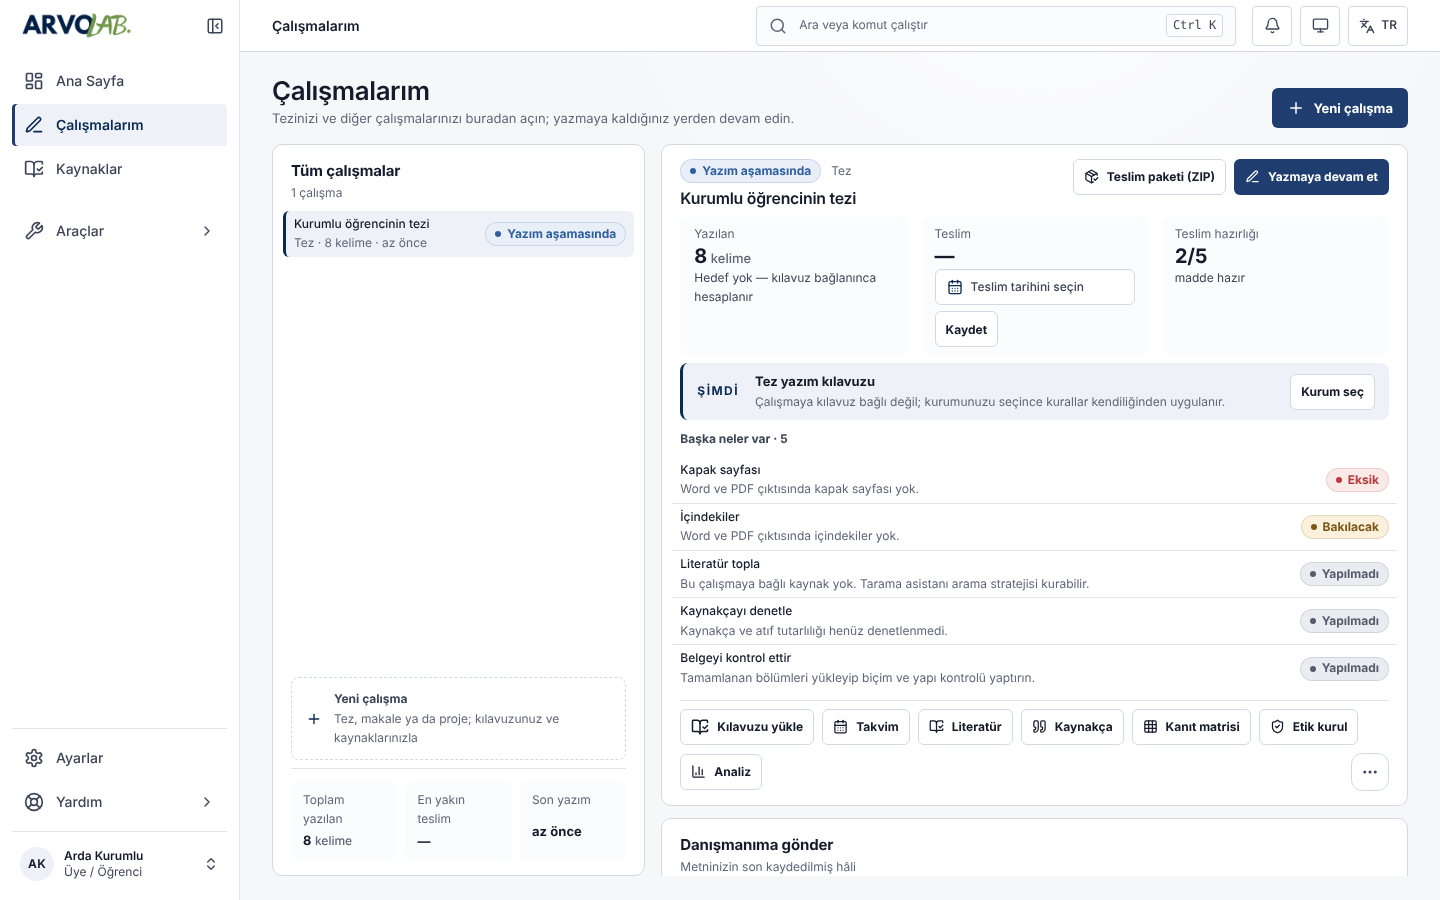
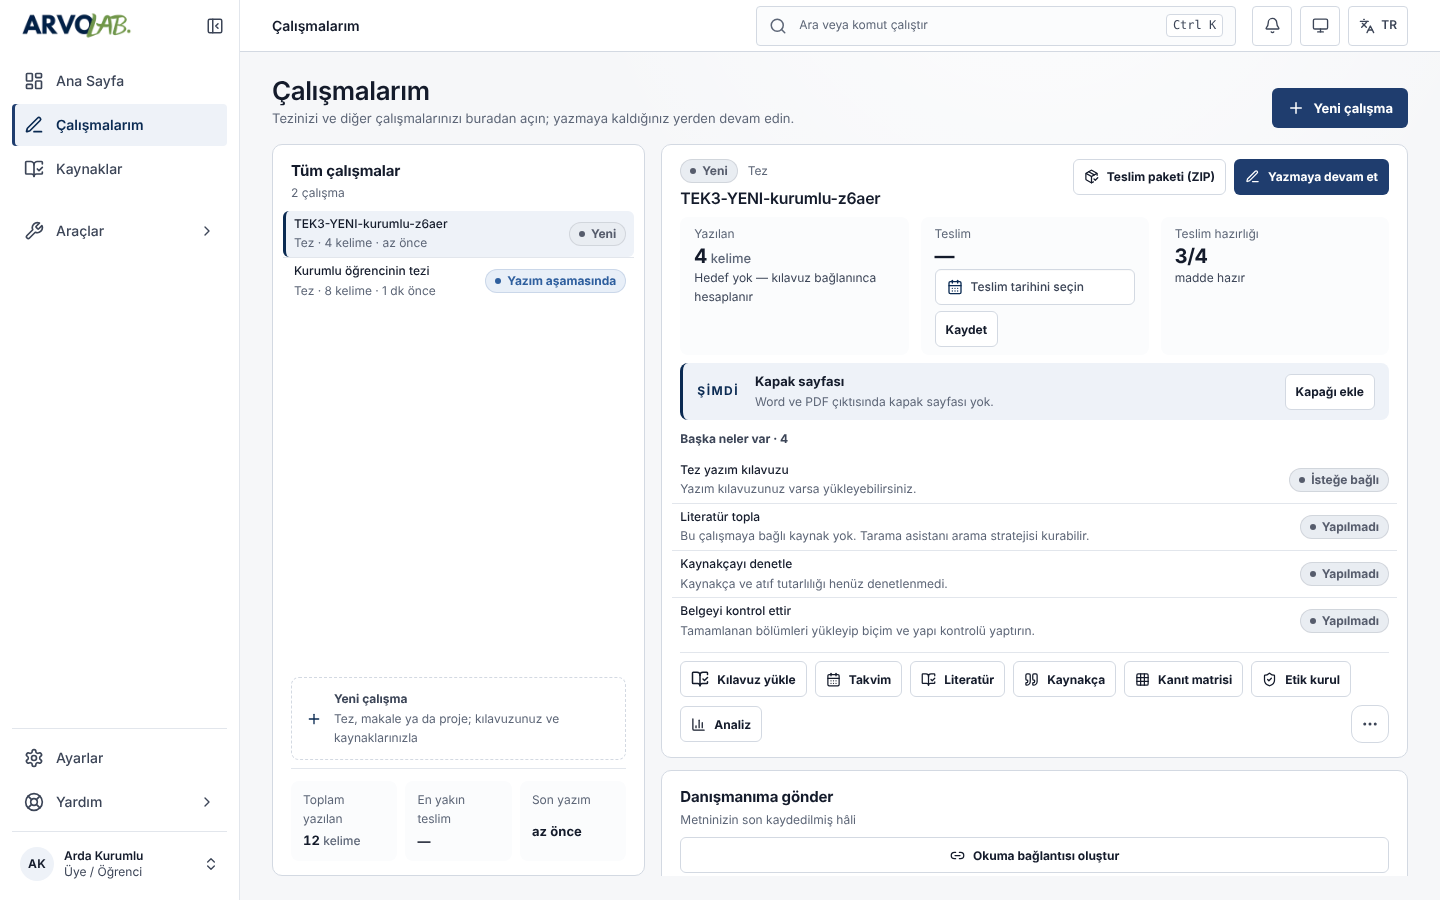
Kılavuz isteğe bağlı: "Kurum seç" kalktı; uzman kuyruğu kabulündeki düzenek hatası
Çalışmalarım'ın "Şimdi" satırı kılavuzsuz her tezde "Kurum seç" diyordu;
editörün kılavuz panelinde de "Kurumu seç" vardı. ArvoLab kurum
seçtirmiyor ve kılavuzsuz yazma/dışa aktarma çalışıyor: kılavuz maddesi
artık isteğe bağlı ("Yazım kılavuzunuz varsa yükleyebilirsiniz" / "Kılavuz
yükle"), teslim hazırlığı sayısına girmez ve "Şimdi" işi olmaz.

Uzman kuyruğu kabulü aynı tohumla ikinci koşuda düşüyordu. Ürün hatası
değil: kuyruk ilk gelen önce sıralanıyor, satırda mesaj değil çalışma
başlığı var ve mesaj yalnızca seçili kaydın detayında. Temiz tohumda
kurumun tek talebi seçili geldiği için geçiyordu. Betik artık talebin kendi
satırını bulup açıyor. Kabul ayrıca kurum seçmeden Word dışa aktarmayı ve
Çalışmalarım'daki isteğe bağlı kılavuz satırını ölçüyor; temiz tohumda ve
aynı tohumla ikinci koşuda 26/26.

Claude-Session: https://claude.ai/code/session_019RKsJcMSQaVAuno3B2diqW

diff --git a/lib/submission-checklist.ts b/lib/submission-checklist.ts
@@ -27,9 +27,8 @@ export function missingCoverFields(cover: Partial<CoverPage>, dil: Dil = "tr"): 
 export type ChecklistStatus = "ok" | "warning" | "todo";
 
 export type ChecklistAction =
-  | "link-guideline"
-  /* Kurum seçili ama katalogda karşılığı yok: öğrenci kendi kılavuzunu
-     yükleyebiliyor (app/actions/calisma-kilavuzu.ts). */
+  /* Kılavuz yükleme (app/actions/calisma-kilavuzu.ts). 20.11.2026'ya kadar
+     bir de "link-guideline" (Kurum seç) vardı; kaldırıldı, aşağıya bakın. */
   | "upload-guideline"
   | "insert-sections"
   | "open-issues"
@@ -46,6 +45,12 @@ export interface ChecklistItem {
   status: ChecklistStatus;
   detail: string;
   action?: { id: ChecklistAction; label: string };
+  /*
+    İsteğe bağlı madde (20.11.2026): teslim hazırlığı sayısına girmez ve
+    "Şimdi" işi olarak seçilmez. Bugün yalnızca kılavuz maddesi böyle;
+    kılavuzsuz yazma ve dışa aktarma tamamen çalışıyor.
+  */
+  optional?: boolean;
 }
 
 export interface SubmissionChecklist {
@@ -58,12 +63,10 @@ export interface ChecklistInput {
   isThesis: boolean;
   hasGuideline: boolean;
   /*
-    Çalışmada kurum bilgisi girili mi. "Kılavuz yok" iki ayrı durum ve
-    çözümleri FARKLI: kurum girilmemişse kurumu seçmek yeter, kurum
-    girilmiş ama katalogda karşılığı yoksa seçmek hiçbir şey
-    değiştirmez — orada tek yol kendi kılavuzunu yüklemek. İkisine
-    aynı şeyi söylemek, öğrenciyi işe yaramayan bir ekrana
-    göndermekti.
+    Çalışmada kurum bilgisi girili mi. 20.11.2026'ya kadar kılavuzsuz
+    tezde metni değiştiriyordu (kurumsuz → "Kurum seç"); kılavuz isteğe
+    bağlı olunca iki durum aynı cümleyi alıyor. Çağıranlar hâlâ verdiği
+    için alan kalıyor.
   */
   hasInstitution?: boolean;
   /** Uygulanan kurallar insan onayından geçti mi (lib/guideline-rules.ts). */
@@ -102,6 +105,15 @@ export function buildSubmissionChecklist(input: ChecklistInput, dil: Dil = "tr")
   const t = (tr: string, ing: string) => (en ? ing : tr);
   const items: ChecklistItem[] = [];
 
+  /*
+    KILAVUZ İSTEĞE BAĞLI (20.11.2026). Eskiden kılavuzu olmayan tezde bu
+    madde "yapılacak"tı ve kurumu girilmemiş kullanıcıyı "Kurum seç"e
+    gönderiyordu: Çalışmalarım'da "Şimdi" satırının işi kurum seçmek
+    oluyordu. ArvoLab artık kurum seçtirmiyor (kurum bağı ArvoOS'tan
+    gelir) ve kılavuz olmadan yazma ve dışa aktarma eksiksiz çalışıyor.
+    Madde kalıyor ama isteğe bağlı: sayıya girmez, "Şimdi" olmaz, tek
+    eylemi kılavuz yüklemek. hasInstitution artık metni değiştirmiyor.
+  */
   if (input.isThesis) {
     items.push(
       input.hasGuideline
@@ -109,26 +121,20 @@ export function buildSubmissionChecklist(input: ChecklistInput, dil: Dil = "tr")
             id: "guideline",
             label: t("Tez yazım kılavuzu", "Thesis writing guideline"),
             status: "ok",
+            optional: true,
             detail:
               input.guidelineVerified === false
                 ? t("Kendi yüklediğiniz kılavuz uygulanıyor; kurumunuzun onayından geçmedi.", "The guideline you uploaded is being applied; it has not been approved by your institution.")
                 : t("Kılavuz bağlı; biçim kuralları kendiliğinden uygulanıyor.", "A guideline is linked; its formatting rules are applied automatically."),
           }
-        : input.hasInstitution
-          ? {
-              id: "guideline",
-              label: t("Tez yazım kılavuzu", "Thesis writing guideline"),
-              status: "todo",
-              detail: t("Kurumunuzun kılavuzu katalogda yok. Kendi kılavuzunuzu yükleyin; kuralları okuyup size onaylatalım.", "Your institution's guideline is not in the catalog. Upload your own guideline; we will read the rules and ask you to confirm them."),
-              action: { id: "upload-guideline", label: t("Kılavuzumu yükle", "Upload my guideline") },
-            }
-          : {
-              id: "guideline",
-              label: t("Tez yazım kılavuzu", "Thesis writing guideline"),
-              status: "todo",
-              detail: t("Çalışmaya kılavuz bağlı değil; kurumunuzu seçince kurallar kendiliğinden uygulanır.", "No guideline is linked to this work; once you select your institution, its rules are applied automatically."),
-              action: { id: "link-guideline", label: t("Kurum seç", "Select institution") },
-            }
+        : {
+            id: "guideline",
+            label: t("Tez yazım kılavuzu", "Thesis writing guideline"),
+            status: "warning",
+            optional: true,
+            detail: t("Yazım kılavuzunuz varsa yükleyebilirsiniz.", "If you have a writing guideline, you can upload it."),
+            action: { id: "upload-guideline", label: t("Kılavuz yükle", "Upload guideline") },
+          }
     );
   }
 
@@ -318,5 +324,7 @@ export function buildSubmissionChecklist(input: ChecklistInput, dil: Dil = "tr")
     items.push({ id: "ethics", label: t("Etik kurul", "Ethics approval"), status: input.etik.durum, detail: input.etik.detay[dil] });
   }
 
-  return { items, done: items.filter((item) => item.status === "ok").length, total: items.length };
+  // İsteğe bağlı maddeler sayılmaz: kılavuz yüklemek teslim hazırlığını "eksik" göstermemeli.
+  const sayilan = items.filter((item) => !item.optional);
+  return { items, done: sayilan.filter((item) => item.status === "ok").length, total: sayilan.length };
 }

diff --git a/app/dashboard/editor/[id]/write/manuscript-editor.tsx b/app/dashboard/editor/[id]/write/manuscript-editor.tsx
@@ -348,8 +348,8 @@ interface ManuscriptEditorProps {
   guideline: AppliedGuideline | null;
   /** Sayfa ayarlarının kılavuzla senkron durumu (sunucuda hesaplanır) */
   guidelineSync: { mode: GuidelineSyncMode; source: SettingsSource; changes: GuidelineSyncChange[] };
-  /** Kurum seçimi için çalışma düzenleme sayfası */
-  editHref: string;
+  /** Çalışma düzenleme sayfası. 20.11.2026'dan beri editörde kullanılmıyor ("Kurum seç" kalktı); çağıran hâlâ veriyor. */
+  editHref?: string;
   /** Word çıktısına içindekiler tablosu */
   initialIncludeToc: boolean;
   /** Kılavuz ve kaynakça kontrolü geçmişi, en yenisi başta (yazim_kontrolleri) */
@@ -550,7 +550,6 @@ export default function ManuscriptEditor({
   projectDefaults,
   guideline,
   guidelineSync,
-  editHref,
   initialIncludeToc,
   kontrolGecmisi = [],
   sonKontrol = null,
@@ -2205,12 +2204,9 @@ export default function ManuscriptEditor({
   }, dil);
   const handleChecklistAction = (action: ChecklistAction) => {
     switch (action) {
-      case "link-guideline":
-        window.open(editHref, "_self");
-        break;
-      /* Kurum girili ama katalogda karşılığı yok: kılavuz penceresi
-         Çalışmalarım'daki kartta açılır (?kilavuz=1). Ayarlara göndermek,
-         hiçbir şeyi değiştirmeyen bir ekrana göndermekti. */
+      /* Kılavuz penceresi Çalışmalarım'daki kartta açılır (?kilavuz=1).
+         20.11.2026'ya kadar bir de "Kurum seç" (link-guideline) vardı ve
+         çalışma ayarlarına gönderiyordu; kılavuz isteğe bağlı olunca kalktı. */
       case "upload-guideline":
         window.open(`/dashboard/editor?sec=${encodeURIComponent(projectId)}&kilavuz=1`, "_self");
         break;
@@ -2731,7 +2727,8 @@ export default function ManuscriptEditor({
                 teslim"in, Kontroller menüsünün ve inceleme panelinin içindeydi;
                 kılavuzun durumu ise belgenin üstünde KALICI bir şeritti ("Bu
                 çalışmaya bağlı kılavuz yok · Kılavuzumu yükle · Kurumu seç").
-                Şerit kalktı, içeriği ve iki bağlantısı burada. Hiçbir işlev
+                Şerit kalktı, içeriği burada; "Kurumu seç" bağlantısı da 20.11.2026'da
+                kalktı (kılavuz isteğe bağlı, ArvoLab kurum seçtirmiyor). Hiçbir işlev
                 kaldırılmadı: Kontroller menüsü ve inceleme paneli aynen duruyor,
                 buradaki düğmeler aynı işleyicileri çağırıyor.
               */}
@@ -2822,18 +2819,15 @@ export default function ManuscriptEditor({
                     ) : (
                       <>
                         <p className="sol-arac-bos">
-                          {t({ tr: "Bu çalışmaya bağlı kılavuz yok.", en: "No guideline is linked to this work." })}{" "}
+                          {/* Kılavuz isteğe bağlı (20.11.2026); kılavuzsuz yazma ve dışa aktarma çalışır. */}
                           {t({
-                            tr: "Tez yazım kılavuzunuzu (PDF ya da web adresi) yükleyin; onayladığınız kurallar editöre uygulanır.",
-                            en: "Upload your thesis writing guideline (PDF or web address); the rules you approve are applied to the editor.",
+                            tr: "Yazım kılavuzunuz varsa yükleyebilirsiniz (PDF ya da web adresi); onayladığınız kurallar editöre uygulanır.",
+                            en: "If you have a writing guideline, you can upload it (PDF or web address); the rules you approve are applied to the editor.",
                           })}
                         </p>
                         <div className="sol-arac-eylem">
                           <Link className="projects-filter-button button-compact" href={calismaAdresi(projectId, { kilavuz: true })}>
-                            {t({ tr: "Kılavuzumu yükle", en: "Upload my guideline" })}
-                          </Link>
-                          <Link className="projects-filter-button button-compact" href={editHref}>
-                            {t({ tr: "Kurumu seç", en: "Select institution" })}
+                            {t({ tr: "Kılavuz yükle", en: "Upload guideline" })}
                           </Link>
                         </div>
                       </>

diff --git a/tests/unit/teslim-hazirligi.test.ts b/tests/unit/teslim-hazirligi.test.ts
@@ -187,19 +187,19 @@ test("teslim hazırlığı", async (t) => {
       projectType: "thesis",
       citationStyle: "apa7",
     });
-    assert.equal(liste.total, liste.items.length);
+    // İsteğe bağlı maddeler (kılavuz, 20.11.2026) sayıya girmez.
+    assert.equal(liste.total, liste.items.filter((i) => !i.optional).length);
     assert.ok(liste.done >= 0 && liste.done <= liste.total);
   });
 });
 
-test("kılavuz maddesi iki ayrı çıkmazı ayırıyor", () => {
+test("kılavuz isteğe bağlı: kurum seçtirmez, sayıya girmez (20.11.2026)", () => {
   /*
-    "Kılavuz yok" iki durum ve çözümleri FARKLI:
-    - kurum girilmemişse kurumu seçmek yeter,
-    - kurum girilmiş ama katalogda karşılığı yoksa seçmek hiçbir şeyi
-      değiştirmez; tek yol kendi kılavuzunu yüklemek.
-    İkisine aynı şeyi söylemek öğrenciyi işe yaramayan bir ekrana
-    göndermekti.
+    Eskiden kılavuzsuz tezde madde "yapılacak"tı ve kurumu girilmemiş
+    kullanıcıyı "Kurum seç"e gönderiyordu; Çalışmalarım'ın "Şimdi" satırı
+    kurum seçtiriyordu. Kurum bağı artık ArvoOS'tan geliyor ve kılavuz
+    olmadan yazma/dışa aktarma çalışıyor: iki durumda da tek eylem kılavuz
+    yüklemek, madde teslim hazırlığı sayısına girmez.
   */
   const madde = (girdi: ChecklistInput) =>
     buildSubmissionChecklist(girdi).items.find((i) => i.id === "guideline");
@@ -218,13 +218,19 @@ test("kılavuz maddesi iki ayrı çıkmazı ayırıyor", () => {
     saveState: "saved",
   };
 
-  const kurumsuz = madde({ ...ortak, hasGuideline: false, hasInstitution: false });
-  assert.equal(kurumsuz?.action?.id, "link-guideline");
-  assert.match(kurumsuz?.detail ?? "", /kurumunuzu seçince/i);
-
-  const kurumlu = madde({ ...ortak, hasGuideline: false, hasInstitution: true });
-  assert.equal(kurumlu?.action?.id, "upload-guideline");
-  assert.match(kurumlu?.detail ?? "", /kendi kılavuzunuzu yükleyin/i);
+  for (const hasInstitution of [false, true]) {
+    const m = madde({ ...ortak, hasGuideline: false, hasInstitution });
+    assert.equal(m?.action?.id, "upload-guideline", String(hasInstitution));
+    assert.equal(m?.action?.label, "Kılavuz yükle");
+    assert.equal(m?.detail, "Yazım kılavuzunuz varsa yükleyebilirsiniz.");
+    assert.equal(m?.optional, true);
+    assert.notEqual(m?.status, "todo");
+    assert.doesNotMatch(JSON.stringify(m), /Kurum seç|kurumunuzu seç/i);
+  }
+  // Sayıya girmiyor: toplam yalnızca zorunlu maddeler.
+  const kilavuzsuz = buildSubmissionChecklist({ ...ortak, hasGuideline: false });
+  assert.equal(kilavuzsuz.total, kilavuzsuz.items.filter((i) => i.id !== "guideline").length);
+  assert.equal(kilavuzsuz.done, kilavuzsuz.items.filter((i) => i.id !== "guideline" && i.status === "ok").length);
 });
 
 test("doğrulanmamış kılavuz hazır maddesinde de söyleniyor", () => {
@@ -270,7 +276,7 @@ test("teslim kontrol listesi İngilizce", () => {
   };
   const liste = buildSubmissionChecklist(girdi, "en");
   const bul = (id: string) => liste.items.find((i) => i.id === id)!;
-  assert.equal(bul("guideline").action?.label, "Select institution");
+  assert.equal(bul("guideline").action?.label, "Upload guideline");
   assert.equal(bul("sections").detail, "3/4 sections present. Missing: Results.");
   assert.equal(bul("pages").detail, "≈ 40 pages; the guideline requires at least 60 pages.");
   assert.equal(bul("structure").detail, "1 serious issue, 2 warnings found.");

diff --git a/lib/calisma-karti.ts b/lib/calisma-karti.ts
@@ -119,10 +119,10 @@ export function secimAdresi(params: Record<string, string | string[] | undefined
   return `${taban}?${arama.toString()}`;
 }
 
-export type EksikTuru = "stil" | "eksik" | "tutarsizlik" | "bakilacak" | "asistan" | "yapilmadi";
+export type EksikTuru = "stil" | "eksik" | "tutarsizlik" | "bakilacak" | "asistan" | "yapilmadi" | "istegeBagli";
 export type EksikSatiri = { anahtar: string; tur: EksikTuru; baslik: string; aciklama: string; href: string };
 
-type MaddeGirdisi = { id: string; label: string; detail: string; status: string };
+type MaddeGirdisi = { id: string; label: string; detail: string; status: string; optional?: boolean };
 type AdimGirdisi = { anahtar: string; baslik: string; aciklama: string; href: string; tamam: boolean };
 
 /*
@@ -165,7 +165,10 @@ export function eksikSatirlari(girdi: {
     aciklama: m.detail,
     href: `/dashboard/editor/${calismaId}/write?teslim=${m.id}`,
   });
-  const kalan = girdi.maddeler.filter((m) => m.status !== "ok" && m.id !== sirada?.kaynakMadde);
+  /* İsteğe bağlı madde (kılavuz yükleme, 20.11.2026) eksik ya da bakılacak
+     sayılmaz; listenin sonunda kendi rozetiyle durur ve kılavuz penceresini açar. */
+  const kalan = girdi.maddeler.filter((m) => m.status !== "ok" && !m.optional && m.id !== sirada?.kaynakMadde);
+  const istegeBagli = girdi.maddeler.filter((m) => m.status !== "ok" && m.optional);
   const siradakiAdim = sirada && !sirada.bitti && !sirada.kaynakMadde ? sirada.href : null;
 
   return [
@@ -176,6 +179,7 @@ export function eksikSatirlari(girdi: {
     ...girdi.tutarsizliklar.map((t) => ({ anahtar: `tutarsizlik-${t.tur}`, tur: "tutarsizlik" as const, baslik: t.baslik, aciklama: t.aciklama, href: literatur })),
     ...kalan.filter((m) => m.status !== "todo").map((m) => madde(m, "bakilacak")),
     ...(girdi.asistanBulgulari ?? []).map((b, sira) => ({ anahtar: `asistan-${sira}`, tur: "asistan" as const, baslik: b.baslik, aciklama: b.aciklama, href: "/dashboard/asistan" })),
+    ...istegeBagli.map((m) => ({ anahtar: `madde-${m.id}`, tur: "istegeBagli" as const, baslik: m.label, aciklama: m.detail, href: calismaAdresi(calismaId, { kilavuz: true }) })),
     ...girdi.adimlar
       .filter((a) => !a.tamam && a.href !== siradakiAdim)
       .map((a) => ({ anahtar: `adim-${a.anahtar}`, tur: "yapilmadi" as const, baslik: a.baslik, aciklama: a.aciklama, href: a.href })),

diff --git a/lib/yardim/kullanim-kilavuzu.ts b/lib/yardim/kullanim-kilavuzu.ts
@@ -110,8 +110,8 @@ const BOLUMLER: KilavuzBolumu[] = [
         en: "Click \"Create and write\" to open the editor. If you have a Word draft, choose \"Import a Word file\"; the work is created and the import window opens.",
       },
       {
-        tr: "Üniversite, anabilim dalı, teslim tarihi ve tez yazım kılavuzu başlangıçta sorulmaz; hepsini sonra çalışmanın içinden eklersiniz. Kılavuzu editördeki \"Kılavuzumu yükle\" bağlantısından yükleyin: ArvoLab kuralları (kaynakça sistemi, zorunlu bölümler, sayfa sınırları) çıkarır, siz kontrol edip \"Kurallarımı uygula\" dersiniz.",
-        en: "University, department, due date and the thesis writing guideline aren't asked at the start; you add them later from inside the work. Upload your guideline from the \"Upload my guideline\" link in the editor: ArvoLab extracts the rules (citation style, required sections, page limits); you review them and click \"Apply my rules\".",
+        tr: "Üniversite, anabilim dalı, teslim tarihi ve tez yazım kılavuzu başlangıçta sorulmaz; hepsini sonra çalışmanın içinden eklersiniz. Kılavuz isteğe bağlıdır; varsa editördeki \"Kılavuz yükle\" bağlantısından yükleyin: ArvoLab kuralları (kaynakça sistemi, zorunlu bölümler, sayfa sınırları) çıkarır, siz kontrol edip \"Kurallarımı uygula\" dersiniz.",
+        en: "University, department, due date and the thesis writing guideline aren't asked at the start; you add them later from inside the work. The guideline is optional; if you have one, upload it from the \"Upload guideline\" link in the editor: ArvoLab extracts the rules (citation style, required sections, page limits); you review them and click \"Apply my rules\".",
       },
     ],
     notlar: [

diff --git a/app/dashboard/editor/[id]/kilavuz-penceresi.tsx b/app/dashboard/editor/[id]/kilavuz-penceresi.tsx
@@ -47,9 +47,9 @@ export default async function KilavuzPenceresi({
       : t({ tr: "Kendi yüklediğiniz kılavuz kullanılıyor", en: "Using the guideline you uploaded" })
     : kilavuzOkunamadi
       ? t({ tr: "Kılavuz aranamadı; sayfayı yenileyin", en: "Couldn't look up the guideline; refresh the page" })
-      : calisma.university
-        ? t({ tr: "Onaylı kılavuz yok — kendi kılavuzunuzu yükleyin", en: "No approved guideline — upload your own" })
-        : t({ tr: "Çalışma ayarlarından kurumu girin", en: "Enter the institution in the work settings" });
+      : /* Kılavuz isteğe bağlı (20.11.2026). Eskiden kurumsuz çalışmada not
+           "Çalışma ayarlarından kurumu girin" diyordu; ArvoLab artık kurum seçtirmiyor. */
+        t({ tr: "Yazım kılavuzunuz varsa yükleyebilirsiniz", en: "If you have a writing guideline, you can upload it" });
 
   return (
     <PanelDrawer
@@ -57,7 +57,7 @@ export default async function KilavuzPenceresi({
         kisa
           ? uygulanan
             ? t({ tr: "Kılavuz", en: "Guideline" })
-            : t({ tr: "Kılavuzu yükle", en: "Upload guideline" })
+            : t({ tr: "Kılavuz yükle", en: "Upload guideline" })
           : t({ tr: "Yazım kılavuzu", en: "Writing guideline" })
       }
       triggerNote={kisa ? undefined : not}

diff --git a/tests/unit/siradaki-is.test.ts b/tests/unit/siradaki-is.test.ts
@@ -129,3 +129,13 @@ test("İngilizce: bitmiş çalışmada cümle ve eylem", () => {
   assert.equal(is.eylem, "Open work overview");
   assert.equal(siradakiIs({ calismaId: "c1", adimlar: [], eksikler: [], kalanGun: null }).baslik, "Teslime hazır görünüyor");
 });
+
+test("isteğe bağlı madde (kılavuz yükleme) 'Şimdi' işi olmaz (20.11.2026)", () => {
+  /* Eskiden kılavuzsuz her tezde "Şimdi" satırı kılavuz maddesini, yani
+     "Kurum seç"i gösteriyordu. Kılavuz isteğe bağlı; sıradaki iş birimlerden gelir. */
+  const istegeBagli: ChecklistItem = { id: "guideline", label: "Tez yazım kılavuzu", status: "warning", optional: true, detail: "Yazım kılavuzunuz varsa yükleyebilirsiniz.", action: { id: "upload-guideline", label: "Kılavuz yükle" } };
+  const adim: Adim = { anahtar: "yazim", baslik: "Yaz", aciklama: "Müsvedde boş", href: "/dashboard/editor/c1/write", tamam: false, zaman: null };
+  const is = siradakiIs({ calismaId: "c1", adimlar: [adim], eksikler: [istegeBagli], kalanGun: null });
+  assert.equal(is.kaynakMadde, undefined);
+  assert.equal(is.baslik, "Yaz");
+});

diff --git a/tests/unit/premium-calisma-alani.test.ts b/tests/unit/premium-calisma-alani.test.ts
@@ -32,11 +32,12 @@ describe("Yazım Stüdyosu: belge odakta, kontroller istenince", () => {
     durumu ve iki yolu (Kılavuzumu yükle, Kurumu seç) çalışma menüsündeki
     "Kılavuz ve biçim" aracında. İki yolun da kaybolmadığını sabitler.
   */
-  test("kılavuz yok şeridi editörde yok; iki yol Kılavuz ve biçim aracında", () => {
+  test("kılavuz yok şeridi editörde yok; yükleme yolu Kılavuz ve biçim aracında, kurum seçimi yok", () => {
     assert.doesNotMatch(editor, /className="kilavuz-satiri"/);
     const arac = editor.slice(editor.indexOf('acilanAraclar.includes("kilavuz")'), editor.indexOf('acilanAraclar.includes("kilavuz")') + 6000);
     assert.match(arac, /calismaAdresi\(projectId, \{ kilavuz: true \}\)/);
-    assert.match(arac, /href=\{editHref\}/);
+    // "Kurumu seç" 20.11.2026'da kalktı: kılavuz isteğe bağlı, ArvoLab kurum seçtirmiyor.
+    assert.doesNotMatch(arac, /href=\{editHref\}|Kurumu seç/);
     assert.match(arac, /setGuidelineOpen\(true\)/);
   });
   test("Bul ve Odak modu kaldırılmadı: Belge menüsünde", () => {

diff --git a/lib/siradaki-is.ts b/lib/siradaki-is.ts
@@ -76,7 +76,10 @@ export function siradakiIs(girdi: {
     "todo" ile "warning" ayrı: ilki eksik bir şey, ikincisi bakılması
     gereken bir şey. Eksik varsa önce o gelir.
   */
-  const eksik = girdi.eksikler.find((e) => e.status === "todo") ?? girdi.eksikler.find((e) => e.status === "warning");
+  /* İsteğe bağlı madde (kılavuz yükleme, 20.11.2026) "Şimdi" işi olmaz;
+     eskiden kılavuzsuz her tezde "Şimdi" satırı "Kurum seç" diyordu. */
+  const zorunlu = girdi.eksikler.filter((e) => !e.optional);
+  const eksik = zorunlu.find((e) => e.status === "todo") ?? zorunlu.find((e) => e.status === "warning");
   if (eksik) {
     return {
       baslik: eksik.label,

diff --git a/app/dashboard/editor/calisma-durum-karti.tsx b/app/dashboard/editor/calisma-durum-karti.tsx
@@ -55,6 +55,7 @@ const TUR: Record<EksikTuru, { etiket: Metin; ton: string }> = {
   bakilacak: { etiket: { tr: "Bakılacak", en: "To review" }, ton: "warning" },
   asistan: { etiket: { tr: "Asistan", en: "Assistant" }, ton: "info" },
   yapilmadi: { etiket: { tr: "Yapılmadı", en: "Not done" }, ton: "neutral" },
+  istegeBagli: { etiket: { tr: "İsteğe bağlı", en: "Optional" }, ton: "neutral" },
 };
 
 export default async function CalismaDurumKarti({
